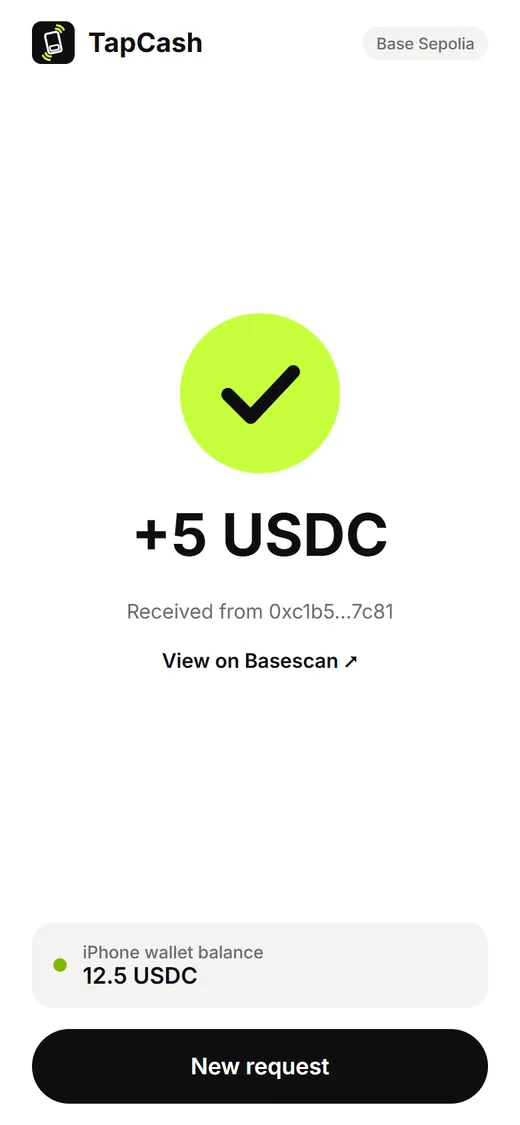
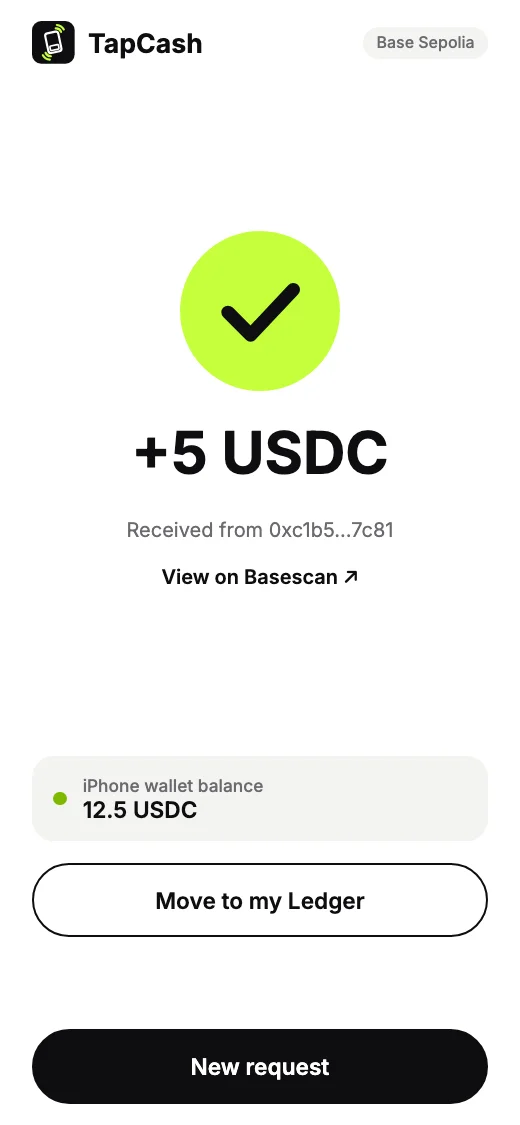
Sync website with Move and Ledger Wallet
Fresh request/done screenshots, Ledger Wallet chip, favicon.

diff --git a/mvp/tapcash/web/site/index.html b/mvp/tapcash/web/site/index.html
@@ -4,6 +4,7 @@
 <meta name="viewport" content="width=device-width, initial-scale=1, viewport-fit=cover">
 <title>TapCash: tap your Ledger, pay in USDC</title>
 <meta name="description" content="Tap a Ledger Flex to an iPhone, approve on the Flex, and USDC moves on Base. The receiver needs only Safari; the payer needs no ETH.">
+<link rel="icon" href="/icon.png">
 <link rel="preconnect" href="https://fonts.googleapis.com">
 <link rel="stylesheet" href="https://fonts.googleapis.com/css2?family=Inter:wght@400;500;600;700&display=swap">
 <style>
@@ -95,8 +96,8 @@
     .hero { grid-template-columns: 1.15fr .85fr; padding-top: 48px; }
     section { padding: 88px 0; }
     .steps { grid-template-columns: repeat(4, 1fr); }
-    .modes, .tools { grid-template-columns: repeat(3, 1fr); }
-    .security { grid-template-columns: repeat(2, 1fr); }
+    .modes { grid-template-columns: repeat(3, 1fr); }
+    .security, .tools { grid-template-columns: repeat(2, 1fr); }
     .cash { grid-template-columns: 1fr 1fr; }
   }
 </style>
@@ -143,9 +144,9 @@
         <p>The Flex shows the amount and recipient. Approve on the Flex, then tap again.</p>
       </li>
       <li>
-        <div class="phone"><img src="iphone-done.webp" width="520" height="1125" loading="lazy" alt="iPhone screen: plus 5 USDC received, with a Basescan link"></div>
+        <div class="phone"><img src="iphone-done.webp" width="520" height="1125" loading="lazy" alt="iPhone screen: plus 5 USDC received, with a Basescan link and a Move to my Ledger button"></div>
         <h3><span class="num">4</span>USDC arrives</h3>
-        <p>The iPhone checks the signature, pays the gas, and the USDC lands.</p>
+        <p>The iPhone checks the signature, pays the gas, and the USDC lands. Move it to your Ledger whenever you like.</p>
       </li>
     </ol>
   </section>
@@ -218,6 +219,7 @@
       <div class="chip"><h3>Ledger signer</h3><p>A custom TapCash app for the Ledger Flex, written in C with the Ledger secure SDK.</p></div>
       <div class="chip"><h3>Device Management Kit</h3><p>The desktop setup page, <a href="/setup.html">/setup.html</a>, connects to the Flex over USB and has you confirm its address on the device.</p></div>
       <div class="chip"><h3>Ledger Wallet CLI</h3><p>Check the TapCash address balance and move USDC in or out from a terminal, confirmed on the Ledger.</p></div>
+      <div class="chip"><h3>Ledger Wallet</h3><p>Move received USDC off the iPhone: connect the Ledger Wallet app over WalletConnect to fill in your Ledger address. Nothing is signed there.</p></div>
     </div>
   </section>
 </main>
